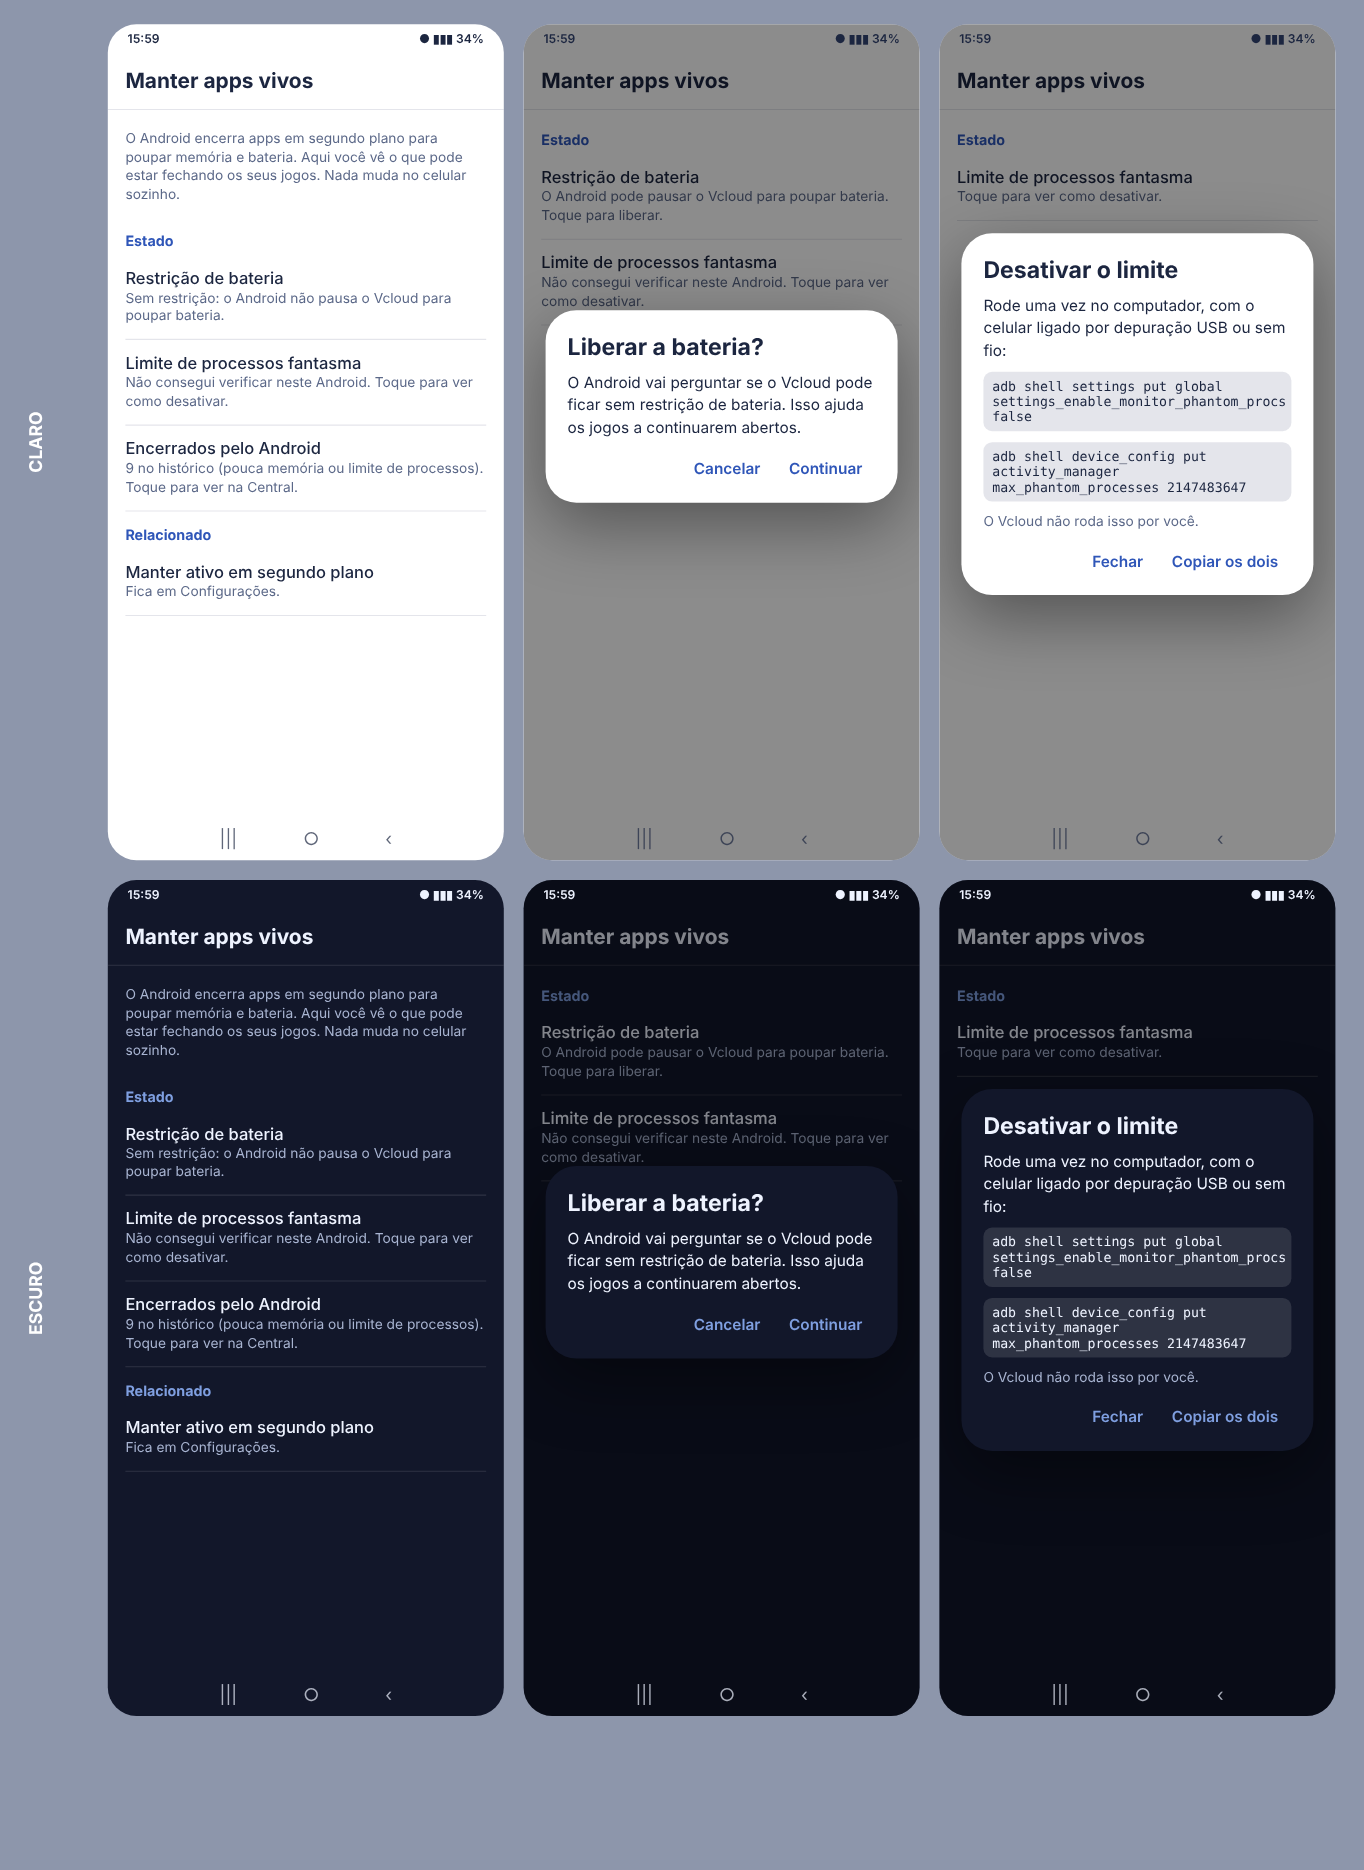
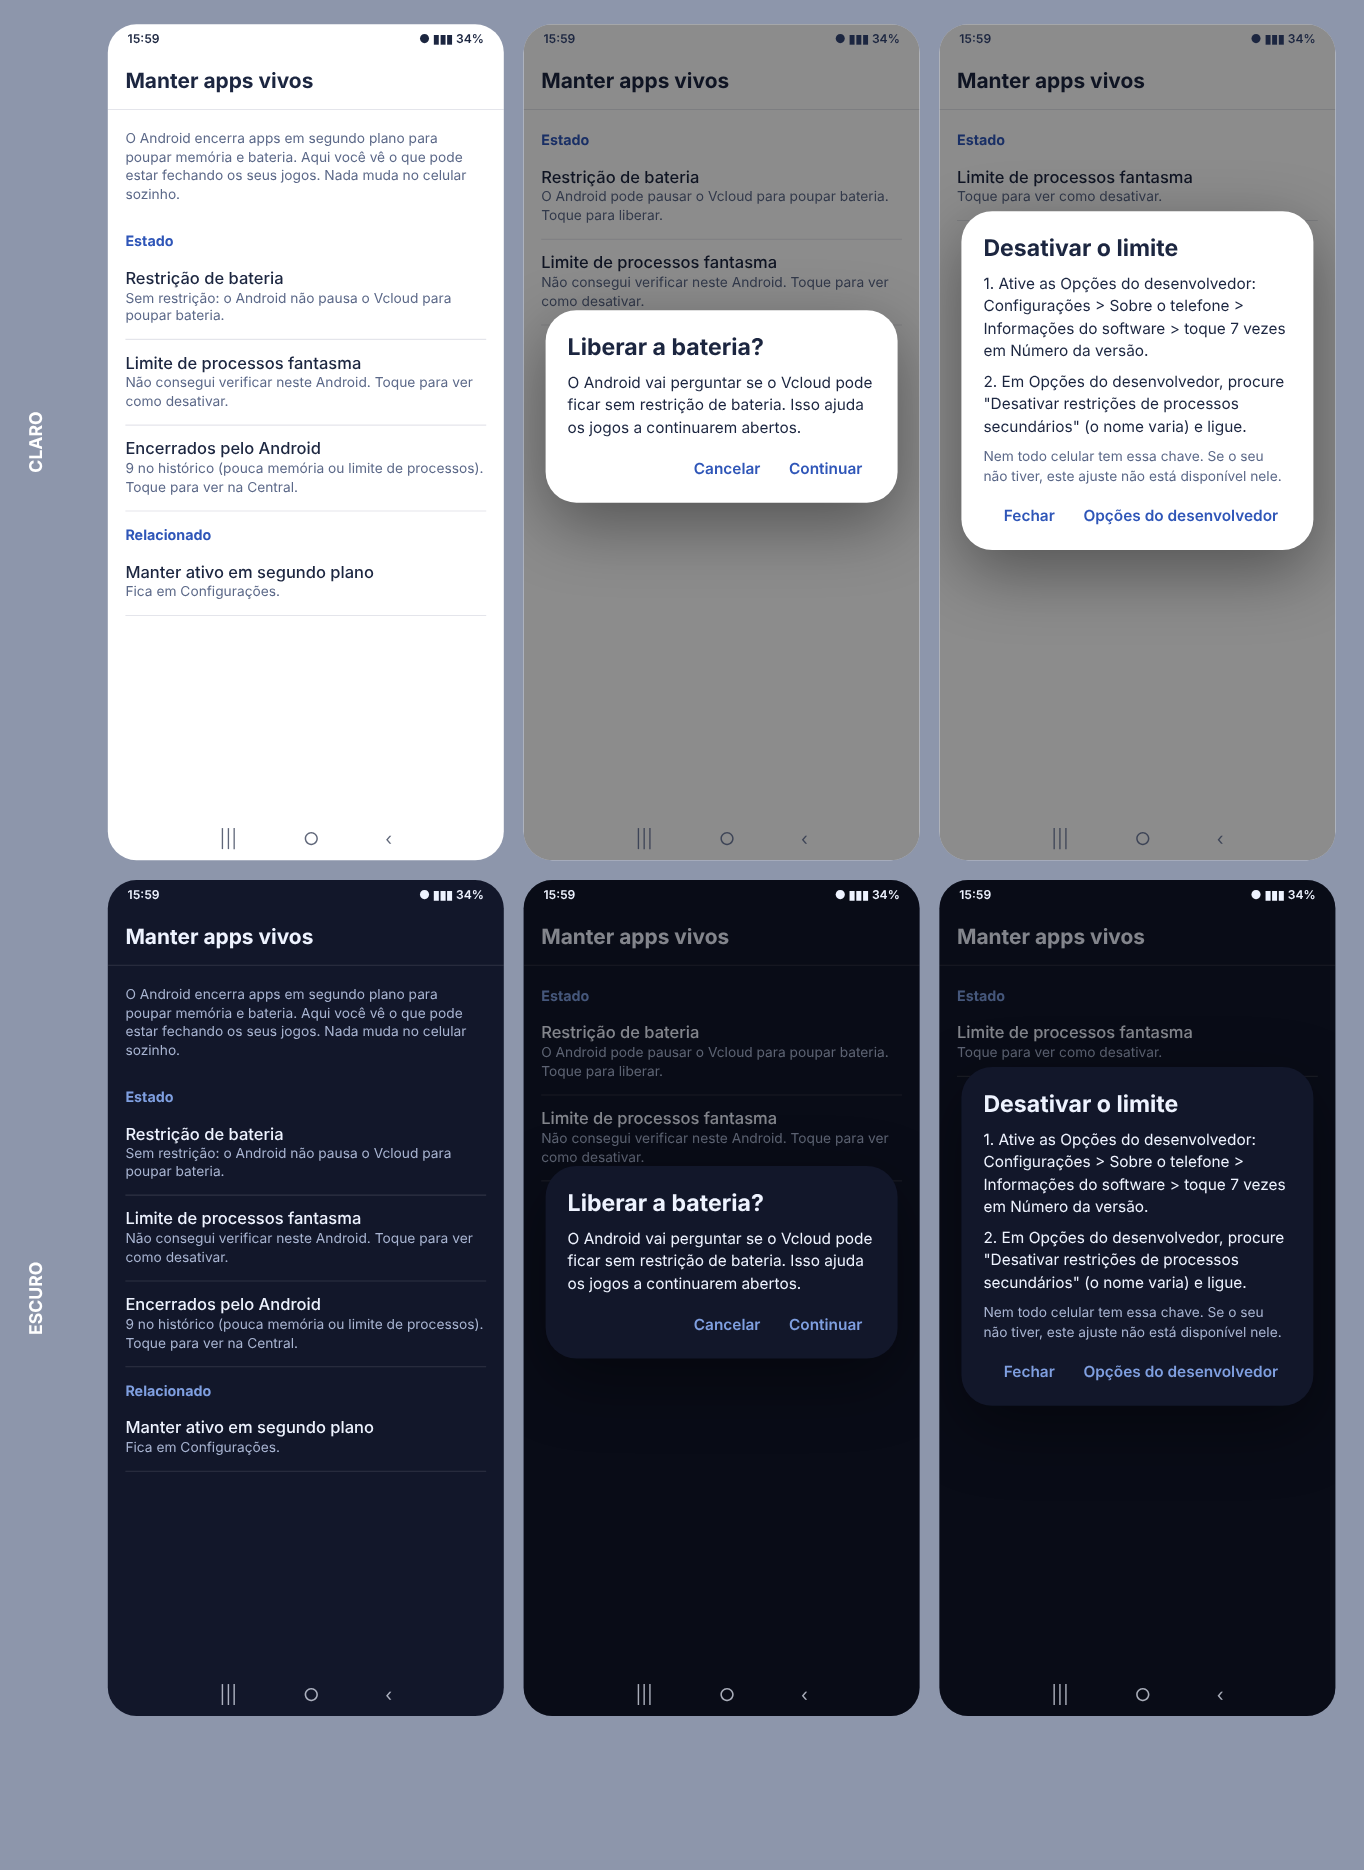
feat: tela Manter apps vivos (padrão das Configurações): bateria, limite de processos fantasma pelas Opções do desenvolvedor, encerrados pelo Android
Claude-Session: https://claude.ai/code/session_01GpUZBH1bWqUku5z28bpgZD

Changed region(s): [[0.7082, 0.093, 0.9853, 0.3412], [0.7082, 0.5893, 0.9545, 0.7754]]

diff --git a/docs/design/vivos.html b/docs/design/vivos.html
@@ -54,7 +54,7 @@ body{background:#8d96ab;display:flex;flex-direction:column;gap:18px;padding:22px
 <div class="cat">Estado</div>
 <div class="pf"><b>Limite de processos fantasma</b><span>Toque para ver como desativar.</span></div>
 </div><div class="scrim"></div>
-<div class="dlg" style="top:190px"><h3>Desativar o limite</h3><p>Rode uma vez no computador, com o celular ligado por depuração USB ou sem fio:</p><div class="cmd">adb shell settings put global settings_enable_monitor_phantom_procs false</div><div class="cmd">adb shell device_config put activity_manager max_phantom_processes 2147483647</div><p class="dim" style="font-size:12.5px">O Vcloud não roda isso por você.</p><div class="act"><div>Fechar</div><div>Copiar os dois</div></div></div><div class="nav"><span>|||</span><span>○</span><span>‹</span></div></div></div></div><div class="lin"><div class="lab">ESCURO</div><div style="--primary:#7F9FE0;--primary_dark:#0D1322;--primary_light:#A9C1F2;--accent:#ffffff;--primary_text:#EEF3FF;--secondary_text:#A9B5D2;--white:rgba(255,255,255,1.00);--on_primary:#0D1322;--surface:rgba(18,23,42,1.00);--on_surface:#EEF3FF;--surface_line:rgba(255,255,255,0.12);--glass_start:rgba(26,34,58,0.80);--glass_end:rgba(18,26,48,0.80);--glass_stroke:rgba(255,255,255,0.10);--tile_bg:rgba(8,12,26,0.50);--tile_stroke:rgba(255,255,255,0.08);--glass_text:#EEF3FF;--glass_text_dim:#A9B5D2;--glass_dot:#7F9FE0;--wave_bg_start:rgba(13,19,34,1.00);--wave_bg_end:rgba(26,38,68,1.00);--wave_a_start:rgba(53,80,143,1.00);--wave_a_end:rgba(27,45,94,1.00);--wave_b:rgba(64,90,153,0.20);--wave_c_start:rgba(46,74,138,0.90);--wave_c_end:rgba(26,44,92,0.80);--wave_d:rgba(49,76,133,0.20)"><div class="ph"><div class="sb"><span>15:59</span><span>● ▮▮▮ 34%</span></div><div class="tb">Manter apps vivos</div><div class="body">
+<div class="dlg" style="top:170px"><h3>Desativar o limite</h3><p>1. Ative as Opções do desenvolvedor: Configurações &gt; Sobre o telefone &gt; Informações do software &gt; toque 7 vezes em Número da versão.</p><p>2. Em Opções do desenvolvedor, procure "Desativar restrições de processos secundários" (o nome varia) e ligue.</p><p class="dim" style="font-size:12.5px">Nem todo celular tem essa chave. Se o seu não tiver, este ajuste não está disponível nele.</p><div class="act"><div>Fechar</div><div>Opções do desenvolvedor</div></div></div><div class="nav"><span>|||</span><span>○</span><span>‹</span></div></div></div></div><div class="lin"><div class="lab">ESCURO</div><div style="--primary:#7F9FE0;--primary_dark:#0D1322;--primary_light:#A9C1F2;--accent:#ffffff;--primary_text:#EEF3FF;--secondary_text:#A9B5D2;--white:rgba(255,255,255,1.00);--on_primary:#0D1322;--surface:rgba(18,23,42,1.00);--on_surface:#EEF3FF;--surface_line:rgba(255,255,255,0.12);--glass_start:rgba(26,34,58,0.80);--glass_end:rgba(18,26,48,0.80);--glass_stroke:rgba(255,255,255,0.10);--tile_bg:rgba(8,12,26,0.50);--tile_stroke:rgba(255,255,255,0.08);--glass_text:#EEF3FF;--glass_text_dim:#A9B5D2;--glass_dot:#7F9FE0;--wave_bg_start:rgba(13,19,34,1.00);--wave_bg_end:rgba(26,38,68,1.00);--wave_a_start:rgba(53,80,143,1.00);--wave_a_end:rgba(27,45,94,1.00);--wave_b:rgba(64,90,153,0.20);--wave_c_start:rgba(46,74,138,0.90);--wave_c_end:rgba(26,44,92,0.80);--wave_d:rgba(49,76,133,0.20)"><div class="ph"><div class="sb"><span>15:59</span><span>● ▮▮▮ 34%</span></div><div class="tb">Manter apps vivos</div><div class="body">
 <div class="pf" style="border:0"><span>O Android encerra apps em segundo plano para poupar memória e bateria. Aqui você vê o que pode estar fechando os seus jogos. Nada muda no celular sozinho.</span></div>
 <div class="cat">Estado</div>
 <div class="pf"><b>Restrição de bateria</b><span>Sem restrição: o Android não pausa o Vcloud para poupar bateria.</span></div>
@@ -71,4 +71,4 @@ body{background:#8d96ab;display:flex;flex-direction:column;gap:18px;padding:22px
 <div class="cat">Estado</div>
 <div class="pf"><b>Limite de processos fantasma</b><span>Toque para ver como desativar.</span></div>
 </div><div class="scrim"></div>
-<div class="dlg" style="top:190px"><h3>Desativar o limite</h3><p>Rode uma vez no computador, com o celular ligado por depuração USB ou sem fio:</p><div class="cmd">adb shell settings put global settings_enable_monitor_phantom_procs false</div><div class="cmd">adb shell device_config put activity_manager max_phantom_processes 2147483647</div><p class="dim" style="font-size:12.5px">O Vcloud não roda isso por você.</p><div class="act"><div>Fechar</div><div>Copiar os dois</div></div></div><div class="nav"><span>|||</span><span>○</span><span>‹</span></div></div></div></div>
+<div class="dlg" style="top:170px"><h3>Desativar o limite</h3><p>1. Ative as Opções do desenvolvedor: Configurações &gt; Sobre o telefone &gt; Informações do software &gt; toque 7 vezes em Número da versão.</p><p>2. Em Opções do desenvolvedor, procure "Desativar restrições de processos secundários" (o nome varia) e ligue.</p><p class="dim" style="font-size:12.5px">Nem todo celular tem essa chave. Se o seu não tiver, este ajuste não está disponível nele.</p><div class="act"><div>Fechar</div><div>Opções do desenvolvedor</div></div></div><div class="nav"><span>|||</span><span>○</span><span>‹</span></div></div></div></div>

diff --git a/android/app/src/main/java/com/vcloud/app/view/vivos/VivosFragment.kt b/android/app/src/main/java/com/vcloud/app/view/vivos/VivosFragment.kt
@@ -1,0 +1,96 @@
+package com.vcloud.app.view.vivos
+
+import android.content.Context
+import android.content.Intent
+import android.net.Uri
+import android.os.Bundle
+import android.os.PowerManager
+import android.provider.Settings
+import android.widget.Toast
+import androidx.preference.Preference
+import androidx.preference.PreferenceFragmentCompat
+import com.google.android.material.dialog.MaterialAlertDialogBuilder
+import com.vcloud.app.R
+import com.vcloud.app.view.setting.DiagnosticoActivity
+import com.vcloud.app.view.setting.SettingActivity
+import com.vcloud.motor.utils.CausaDeErro
+import com.vcloud.motor.utils.Diagnostico
+
+/**
+ * Mostra o que pode estar fechando os apps em segundo plano e como evitar. Não muda nada no celular sozinho:
+ * tudo passa por telas do próprio Android (bateria, Opções do desenvolvedor) ou por comandos que você roda.
+ */
+class VivosFragment : PreferenceFragmentCompat() {
+    override fun onCreatePreferences(savedInstanceState: Bundle?, rootKey: String?) {
+        setPreferencesFromResource(R.xml.vivos, rootKey)
+        findPreference<Preference>("viv_bateria")?.setOnPreferenceClickListener { bateria(); true }
+        findPreference<Preference>("viv_fantasma")?.setOnPreferenceClickListener { fantasma(); true }
+        findPreference<Preference>("viv_encerrados")?.setOnPreferenceClickListener {
+            startActivity(Intent(requireContext(), DiagnosticoActivity::class.java)); true
+        }
+        findPreference<Preference>("viv_segundo_plano")?.setOnPreferenceClickListener {
+            startActivity(Intent(requireContext(), SettingActivity::class.java)); true
+        }
+    }
+
+    override fun onResume() {
+        super.onResume() // volta do pedido do Android: atualiza o estado
+        val ctx = requireContext()
+        findPreference<Preference>("viv_bateria")?.summary =
+            if (semRestricaoDeBateria(ctx)) "Sem restrição: o Android não pausa o Vcloud para poupar bateria."
+            else "O Android pode pausar o Vcloud para poupar bateria. Toque para liberar."
+        findPreference<Preference>("viv_fantasma")?.summary = when (estadoFantasma(ctx)) {
+            false -> "Desativado: o Android não limita os processos dos apps. Toque para rever."
+            true -> "Ativo: o Android pode encerrar processos dos jogos. Toque para ver como desativar."
+            null -> "Não consegui verificar neste Android. Toque para ver como desativar."
+        }
+        val n = CausaDeErro.contarEncerradosPeloAndroid(Diagnostico.ler())
+        findPreference<Preference>("viv_encerrados")?.summary =
+            if (n == 0) "Nenhum no histórico. Toque para abrir a Central."
+            else "$n no histórico (pouca memória ou limite de uso). Toque para ver na Central."
+    }
+
+    private fun semRestricaoDeBateria(ctx: Context) =
+        ctx.getSystemService(PowerManager::class.java).isIgnoringBatteryOptimizations(ctx.packageName)
+
+    /** true = limite ativo, false = desativado, null = o Android não deixa o app ler (nesse caso não afirmamos nada). */
+    private fun estadoFantasma(ctx: Context): Boolean? = try {
+        when (Settings.Global.getString(ctx.contentResolver, "settings_enable_monitor_phantom_procs")) {
+            "false" -> false
+            "true" -> true
+            else -> null
+        }
+    } catch (e: Exception) { null }
+
+    private fun bateria() {
+        val ctx = requireContext()
+        if (semRestricaoDeBateria(ctx)) { abrir(Intent(Settings.ACTION_IGNORE_BATTERY_OPTIMIZATION_SETTINGS)); return }
+        MaterialAlertDialogBuilder(ctx)
+            .setTitle("Liberar a bateria?")
+            .setMessage("O Android vai perguntar se o Vcloud pode ficar sem restrição de bateria. Isso ajuda os jogos a continuarem abertos.")
+            .setPositiveButton("Continuar") { _, _ ->
+                abrir(Intent(Settings.ACTION_REQUEST_IGNORE_BATTERY_OPTIMIZATIONS, Uri.parse("package:" + ctx.packageName)))
+            }
+            .setNegativeButton("Cancelar", null)
+            .show()
+    }
+
+    private fun fantasma() {
+        MaterialAlertDialogBuilder(requireContext())
+            .setTitle("Desativar o limite")
+            .setMessage(
+                "1. Ative as Opções do desenvolvedor: Configurações > Sobre o telefone > Informações do software > toque 7 vezes em Número da versão.\n\n" +
+                "2. Em Opções do desenvolvedor, procure \"Desativar restrições de processos secundários\" (o nome varia) e ligue.\n\n" +
+                "Nem todo celular tem essa chave. Se o seu não tiver, este ajuste não está disponível nele."
+            )
+            .setPositiveButton("Opções do desenvolvedor") { _, _ -> abrir(Intent(Settings.ACTION_APPLICATION_DEVELOPMENT_SETTINGS)) }
+            .setNegativeButton("Fechar", null)
+            .show()
+    }
+
+    private fun abrir(i: Intent) {
+        try { startActivity(i) } catch (e: Exception) {
+            Toast.makeText(requireContext(), "Este celular não abriu essa tela do Android.", Toast.LENGTH_LONG).show()
+        }
+    }
+}

diff --git a/android/app/src/main/java/com/vcloud/app/view/vivos/VivosActivity.kt b/android/app/src/main/java/com/vcloud/app/view/vivos/VivosActivity.kt
@@ -1,0 +1,19 @@
+package com.vcloud.app.view.vivos
+
+import android.os.Bundle
+import com.vcloud.app.R
+import com.vcloud.app.databinding.ActivitySettingBinding
+import com.vcloud.app.util.inflate
+import com.vcloud.app.view.base.BaseActivity
+
+/** Tela "Manter apps vivos": mesmo molde das Configurações (barra + lista nativa de preferências). */
+class VivosActivity : BaseActivity() {
+    private val viewBinding: ActivitySettingBinding by inflate()
+
+    override fun onCreate(savedInstanceState: Bundle?) {
+        super.onCreate(savedInstanceState)
+        setContentView(viewBinding.root)
+        initToolbar(viewBinding.toolbarLayout.toolbar, R.string.vivos_titulo, true)
+        supportFragmentManager.beginTransaction().replace(R.id.fragment, VivosFragment()).commit()
+    }
+}

diff --git a/android/app/src/main/java/com/vcloud/app/view/setting/SettingFragment.kt b/android/app/src/main/java/com/vcloud/app/view/setting/SettingFragment.kt
@@ -29,6 +29,10 @@ class SettingFragment : PreferenceFragmentCompat() {
 
         initSobrepor()
         initPainel()
+        findPreference<Preference>("manter_vivos")?.setOnPreferenceClickListener {
+            startActivity(android.content.Intent(requireContext(), com.vcloud.app.view.vivos.VivosActivity::class.java))
+            true
+        }
         findPreference<Preference>("gerenciador_root")?.setOnPreferenceClickListener {
             startActivity(android.content.Intent(requireContext(), com.vcloud.app.view.root.RootManagerActivity::class.java))
             true

diff --git a/docs/design/gerar_vivos.py b/docs/design/gerar_vivos.py
@@ -20,13 +20,13 @@ def bateria():
 <div class="pf"><b>Limite de processos fantasma</b><span>Não consegui verificar neste Android. Toque para ver como desativar.</span></div>
 </div><div class="scrim"></div>
 <div class="dlg" style="top:260px"><h3>Liberar a bateria?</h3><p>O Android vai perguntar se o Vcloud pode ficar sem restrição de bateria. Isso ajuda os jogos a continuarem abertos.</p><div class="act"><div>Cancelar</div><div>Continuar</div></div></div>{NAV}</div>'''
-def comandos():
+def dev():
     return f'''<div class="ph">{SB}<div class="tb">Manter apps vivos</div><div class="body">
 <div class="cat">Estado</div>
 <div class="pf"><b>Limite de processos fantasma</b><span>Toque para ver como desativar.</span></div>
 </div><div class="scrim"></div>
-<div class="dlg" style="top:190px"><h3>Desativar o limite</h3><p>Rode uma vez no computador, com o celular ligado por depuração USB ou sem fio:</p><div class="cmd">adb shell settings put global settings_enable_monitor_phantom_procs false</div><div class="cmd">adb shell device_config put activity_manager max_phantom_processes 2147483647</div><p class="dim" style="font-size:12.5px">O Vcloud não roda isso por você.</p><div class="act"><div>Fechar</div><div>Copiar os dois</div></div></div>{NAV}</div>'''
+<div class="dlg" style="top:170px"><h3>Desativar o limite</h3><p>1. Ative as Opções do desenvolvedor: Configurações &gt; Sobre o telefone &gt; Informações do software &gt; toque 7 vezes em Número da versão.</p><p>2. Em Opções do desenvolvedor, procure "Desativar restrições de processos secundários" (o nome varia) e ligue.</p><p class="dim" style="font-size:12.5px">Nem todo celular tem essa chave. Se o seu não tiver, este ajuste não está disponível nele.</p><div class="act"><div>Fechar</div><div>Opções do desenvolvedor</div></div></div>{NAV}</div>'''
 h=f'<!doctype html><html lang="pt-BR"><meta charset="utf-8"><style>{CSS}</style><body>'
 for txt,d in (("CLARO",claro),("ESCURO",escuro)):
-    h+=f'<div class="lin"><div class="lab">{txt}</div>'+''.join(f'<div style="{V(d)}">{f()}</div>' for f in (tela,bateria,comandos))+'</div>'
+    h+=f'<div class="lin"><div class="lab">{txt}</div>'+''.join(f'<div style="{V(d)}">{f()}</div>' for f in (tela,bateria,dev))+'</div>'
 open('vivos.html','w',encoding='utf-8').write(h); print("ok")

diff --git a/android/app/src/test/java/com/vcloud/app/CausaDeErroTest.java b/android/app/src/test/java/com/vcloud/app/CausaDeErroTest.java
@@ -72,4 +72,13 @@ public class CausaDeErroTest {
         assertTrue(com.vcloud.motor.utils.Diagnostico.emLaco(pkg));  // a 4ª pausa (o histórico falha em silêncio fora do Android)
         assertTrue(!com.vcloud.motor.utils.Diagnostico.emLaco("outro.pacote")); // só o pacote que cai
     }
+
+    @Test public void contaSoOsFechamentosCausadosPeloAndroid() {
+        String h = "01/11 14:38:14  FECHOU  a pid=1 depois de 540 s\n    Android: morto por pouca memória ()\n"
+                + "01/11 14:39:02  FECHOU  b pid=2 depois de 557 s\n    Android: parado pelo usuário ([REMOVE TASK])\n"
+                + "01/11 14:40:00  FECHOU  c pid=3 depois de 30 s\n    Android: uso excessivo de recursos ()\n";
+        assertTrue(CausaDeErro.contarEncerradosPeloAndroid(h) == 2);
+        assertTrue(CausaDeErro.contarEncerradosPeloAndroid(null) == 0);
+        assertTrue(CausaDeErro.contarEncerradosPeloAndroid("") == 0);
+    }
 }

diff --git a/android/Bcore/src/main/java/com/vcloud/motor/utils/CausaDeErro.java b/android/Bcore/src/main/java/com/vcloud/motor/utils/CausaDeErro.java
@@ -91,6 +91,16 @@ public final class CausaDeErro {
         return r;
     }
 
+    /** Quantos fechamentos o PRÓPRIO Android causou (pouca memória ou limite de uso) no histórico da Central. */
+    public static int contarEncerradosPeloAndroid(String historico) {
+        if (historico == null) return 0;
+        int n = 0;
+        for (String l : historico.split("\n")) {
+            if (l.contains("Android: morto por pouca memória") || l.contains("Android: uso excessivo de recursos")) n++;
+        }
+        return n;
+    }
+
     private static String corta(String l) {
         return l.length() > 220 ? l.substring(0, 220) : l;
     }
